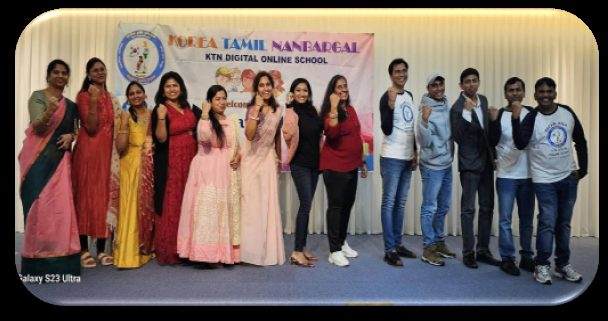
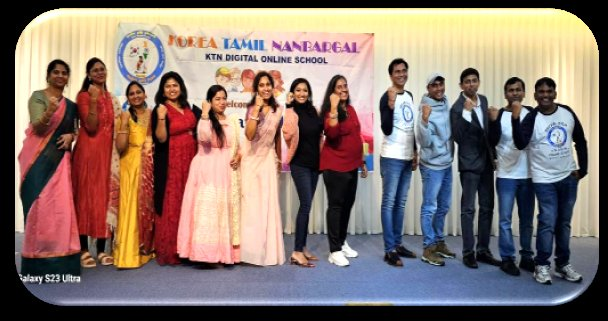
Update

diff --git a/src/views/Home.jsx b/src/views/Home.jsx
@@ -133,7 +133,7 @@ export default function Home({ news, site, onGo, onLightbox }) {
         <h2 className="h2" style={{ marginBottom: 10 }}>Life at KTN</h2>
         <div className="gstrip">
           {gallery.map((p, i) => (
-            <div key={i} className="gphoto" onClick={() => onLightbox(p)}>
+            <div key={i} className="gphoto" onClick={() => onLightbox(p)} style={p.wide ? { width: 300, height: 160 } : undefined}>
               <img src={p.src} alt={p.cap} />
               <div className="cap">{p.cap}</div>
             </div>

diff --git a/src/data/gallery.js b/src/data/gallery.js
@@ -12,6 +12,6 @@ const entries = Object.keys(mods).sort((a, b) => {
 const builtins = entries.map((path, i) => ({ src: mods[path], cap: CAPS[i] || "" }));
 
 export const GALLERY = [
-  { src: teachersAnnual, cap: "KTN teachers · Annual Day" },
+  { src: teachersAnnual, cap: "KTN teachers · Annual Day", wide: true },
   ...builtins,
 ];
